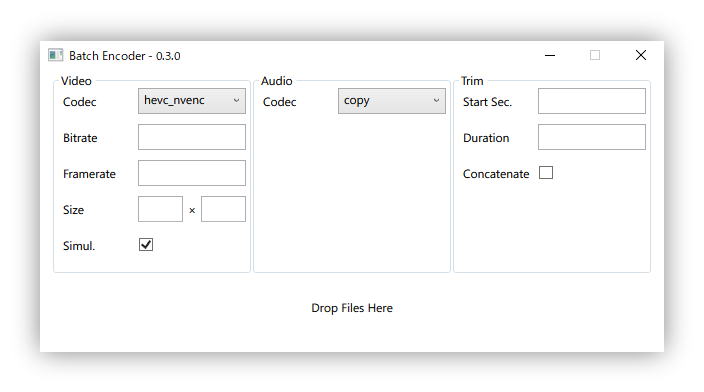
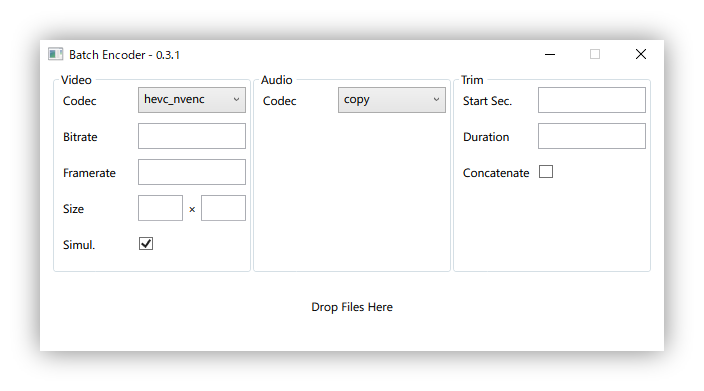
Version 0.3.1

diff --git a/Properties/AssemblyInfo.cs b/Properties/AssemblyInfo.cs
@@ -51,4 +51,4 @@ using System.Windows;
 // You can specify all the values or you can default the Build and Revision Numbers
 // by using the '*' as shown below:
 // [assembly: AssemblyVersion("1.0.*")]
-[assembly: AssemblyFileVersion("0.3.0")]
+[assembly: AssemblyFileVersion("0.3.1")]
